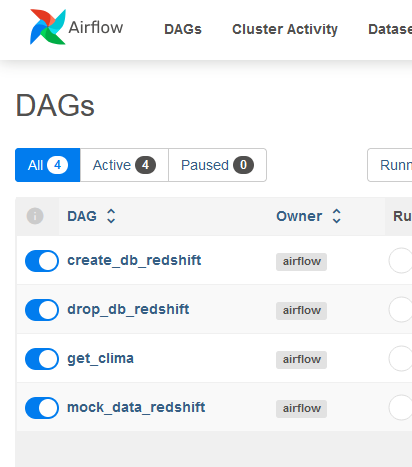
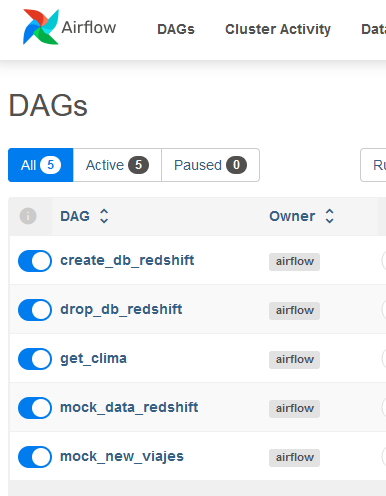
debug adding trips and update readme

diff --git a/mentre/dags/code/mock_viajes.py b/mentre/dags/code/mock_viajes.py
@@ -3,7 +3,10 @@ import logging
 import numpy as np
 from random import randint
 import pandas as pd
+from sqlalchemy import create_engine
 
+from code.database import REDSHIFT_CONN_STR
+from code.database_funcs import get_max_id
 from code.utils import random_categories_array
 from options import TIPO_CATEGORIA, TRIP_END
 
@@ -204,11 +207,13 @@ def mock_viajes_f(is_comfort: pd.Series) -> pd.DataFrame:
 def merge_drivers_usuarios(
     drivers: pd.DataFrame,
     usuarios: pd.DataFrame,
+    max_id: int | None,
 ) -> pd.DataFrame:
     """Merge drivers and users for the mock_viajes task."""
     d = drivers.shape[0]
     u = usuarios.shape[0]
     assert d == u, f"The rows don't match: {d} in drivers vs. {u} in usuarios"
+
     viajes = pd.concat((drivers, usuarios), axis=1)
     viajes = pd.concat(
         (
@@ -217,16 +222,28 @@ def merge_drivers_usuarios(
         ),
         axis=1,
     )
+
     viajes = viajes.sort_values("tiempo_inicio", ignore_index=True)
-    viajes["id"] = range(viajes.shape[0])
+    viajes["id"] = (
+        range(viajes.shape[0])
+        if max_id is None
+        else range(max_id + 1, max_id + 1 + viajes.shape[0])
+    )
+
     return viajes
 
 
 # * High level function
 
 
-def mock_viajes_hlf(path_usuarios: str, path_drivers: str) -> pd.DataFrame:
+def mock_viajes_hlf(path_usuarios: str, path_drivers: str, append: bool = False) -> pd.DataFrame:
     """High level function for the mocking of viajes."""
+    if append:
+        engine = create_engine(REDSHIFT_CONN_STR)
+        max_id = get_max_id(engine, "viajes")
+    else:
+        max_id = None
+
     usuarios = get_usuarios(path_usuarios)
     n_extra_viajes = randint(usuarios.shape[0], 2 * usuarios.shape[0])  # ! both inclusive
     logging.info(f"usuarios: {usuarios.shape[0]}")
@@ -235,7 +252,7 @@ def mock_viajes_hlf(path_usuarios: str, path_drivers: str) -> pd.DataFrame:
     usuarios = preprocess_usuarios(usuarios, n_extra_viajes)
     drivers = get_preprocess_drivers(path_drivers, usuarios.shape[0])
 
-    viajes = merge_drivers_usuarios(drivers, usuarios)
+    viajes = merge_drivers_usuarios(drivers, usuarios, max_id=max_id)
     del drivers, usuarios
 
     return viajes

diff --git a/mentre/dags/code/database_funcs.py b/mentre/dags/code/database_funcs.py
@@ -99,38 +99,44 @@ def check_mock_is_full(
     table_name: str,
     is_fixed_table: bool = False,
     check_local_csv: bool = True,
+    count_not_exists_as_empty: bool = False,
 ) -> str | None:
     """Check if the existing table is full.
 
     Returns the CSV path if it is. Else returns None.
     """
     assert all(ch not in table_name for ch in [".", "/", "\\"])
-    result = execute_query(
-        engine,
-        "select",
-        "check_exists.sql",
-        prev_kwargs={"DB_TABLE": table_name},
+    try:
+        result = execute_query(
+            engine,
+            "select",
+            "check_exists.sql",
+            prev_kwargs={"DB_TABLE": table_name},
+        )
+    except Exception:
+        if not count_not_exists_as_empty:
+            raise
+        result = None
+
+    is_full = result.first()[0] if result is not None else False
+    if not is_full:
+        return None
+    logging.info(
+        f"The table '{table_name}' exists and it's already full. Skipping data creation."
     )
-    is_full = result.first()[0]
-    if is_full:
-        logging.info(
-            f"The table '{table_name}' exists and it's already full. Skipping data creation."
-        )
 
-        if not check_local_csv:
-            return "fake/path"
+    if not check_local_csv:
+        return "fake/path"
+    path = (
+        f"tables/{table_name}.csv"
+        if is_fixed_table
+        else f"local/mocked_{table_name}.csv"
+    )
 
-        path = (
-            f"tables/{table_name}.csv"
-            if is_fixed_table
-            else f"local/mocked_{table_name}.csv"
-        )
-
-        assert os.path.exists(
-            path
-        ), f"Table '{table_name}' is full but local CSV doesn't exist."
-        return path
-    return None
+    assert os.path.exists(
+        path
+    ), f"Table '{table_name}' is full but local CSV doesn't exist."
+    return path
 
 
 def get_max_id(engine, table_name: str) -> int:

diff --git a/mentre/dags/tasks/mock_data_redshift.py b/mentre/dags/tasks/mock_data_redshift.py
@@ -50,13 +50,13 @@ def get_mock_viajes(append: bool):
         path_drivers = kwargs["ti"].xcom_pull(task_ids="mock_drivers")
         path_usuarios = kwargs["ti"].xcom_pull(task_ids="mock_usuarios")
 
-        viajes = mock_viajes_hlf(path_usuarios, path_drivers)
+        viajes = mock_viajes_hlf(path_usuarios, path_drivers, append=append)
 
         # First append new data, then save appended data separately
         # If appending, return only new data path, else return the complete data path
         path = save_mock(viajes, "viajes", engine, append=append)
         if append:
-            path_append = save_mock(viajes, "viajes_append", engine, append=False)
+            path_append = save_mock(viajes, "viajes_append", engine, append=False, to_sql=False)
             return path_append
         else:
             return path
@@ -117,13 +117,13 @@ def mock_clima(**kwargs) -> None:
 
 def check_viajes_analisis() -> str | None:
     engine = create_engine(REDSHIFT_CONN_STR)
-    path = check_mock_is_full(
+    return check_mock_is_full(
         engine,
         "viajes_analisis", 
         is_fixed_table=False, 
         check_local_csv=False,
+        count_not_exists_as_empty=True,
     )
-    return isinstance(path, str)  # eq. to is_full
 
 
 def viajes_analisis_is_full(**kwargs) -> str:

diff --git a/mentre/dags/code/mock.py b/mentre/dags/code/mock.py
@@ -25,7 +25,13 @@ def save_to_sql(df: pd.DataFrame, table_name: str, engine) -> None:
     logging.info(f"Transformed data loaded into Redshift in table '{table_name}'")
 
 
-def save_mock(df: pd.DataFrame, table_name: str, engine, append: bool = False) -> str:
+def save_mock(
+    df: pd.DataFrame,
+    table_name: str,
+    engine,
+    append: bool = False,
+    to_sql: bool = True,
+) -> str:
     """Save mock data to local CSV folder and to SQL."""
     path = f"local/mocked_{table_name}.csv"
 
@@ -34,7 +40,8 @@ def save_mock(df: pd.DataFrame, table_name: str, engine, append: bool = False) -
     else:
         df.to_csv(path, index=False)
 
-    save_to_sql(df, table_name, engine)
+    if to_sql:
+        save_to_sql(df, table_name, engine)
     return path
 
 

diff --git a/README.md b/README.md
@@ -60,16 +60,18 @@ Una vez levantado Airflow, ir a http://localhost:8080/home desde un explorador p
 Se encontrarán con los siguientes DAGs:
 - `create_database`: Crea las tablas del proyecto con sus correspondientes esquemas de tipo de datos en el schema `DB_SCHEMA` del archivo `.env`.
 - `drop_database`: Elimina completamente las tablas del proyecto.
+- `get_clima` (c/hora): Llama a la API de AccuWeather para pedir el detalle meteorológico actual de la Ciudad Autónoma de Buenos Aires (Argentina), lo transforma a tabla, filtra las columnas necesarias y lo sube a Redshift.
 - `mock_data_redshift`: Crea de forma aleatoria la información falsa _(mock)_ del proyecto, tomando hipótesis varias para dicha creación, de tal forma que haya correspondencia y cierta correlación entre las variables de las tablas. Este DAG está preparado para detectar 2 situaciones de interés:
     - Si no existe una tabla requerida, levanta un error.
-    - Si existe la tabla requerieda pero no está vacía, saltea todos los cálculos del task correspondiente.
-- `get_clima` (c/hora): Llama a la API de AccuWeather para pedir el detalle meteorológico actual de la Ciudad Autónoma de Buenos Aires (Argentina), lo transforma a tabla, filtra las columnas necesarias y lo sube a Redshift.
+    - Si existe la tabla requerieda pero no está vacía, saltea todos los cálculos del task correspondiente. (Por un problema con el nombre del .)
+- `mock_new_viajes`: Reutilización del código de las tasks de `viajes` y `viajes_eventos` para la creación de más viajes.
 
 <img src="docs/airflow_dags.png" alt="Airflow - DAGs del proyecto"></img>
 
 El camino usual es:
 1. `create_database`
 2. `mock_data_redshift`
+3. `mock_new_viajes` (pueden ser múltiples veces)
 
 Para el desarrollador: ante cualquier inconveniente que no pueda ser resuelto por debuguear `mock_data_redshift`, usar `drop_database` y volver a correr los DAGs 1 y 2.
 
@@ -108,6 +110,11 @@ Para las tablas de clima en CABA hemos propuesto la siguiente estructura:
 - `clima`: Registra cada 1 hora el clima en CABA según los datos de la API de AccuWeather. No sólo guardamos la `temperatura_c` _(temperatura en Celsius)_, sino otros factores que nos pueden ser de interés analítico como la `humedad_relativa_pp` _(humedad relativa en puntos porcentuales 0-100)_, la `precipitacion_mm`, el `indice_uv`, etc.
 
 <img src="docs/clima_ER.png" alt="Diagrama de relaciones entre entidades (DER) de clima"></img>
+
+Adicionalmente, hay una tabla analítica que une a estos 2 DER:
+- `viajes_analisis`: Representa una tabla resultado de una query analítica, como una que se usaría en la práctica para tratar de relacionar -en este caso- el clima de la hora correspondiente con varios indicadores operativos y de negocio. Relaciona `viajes` con `clima`.
+
+<img src="docs/viajes_analisis_ER.png" alt="Tabla viajes_analisis"></img>
 
 ### Airflow
 
